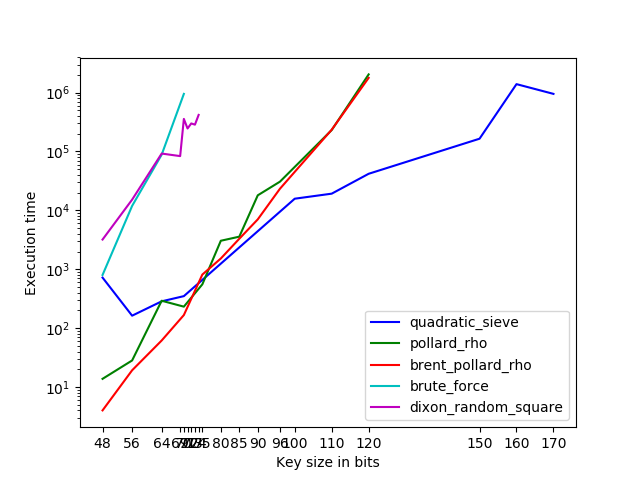
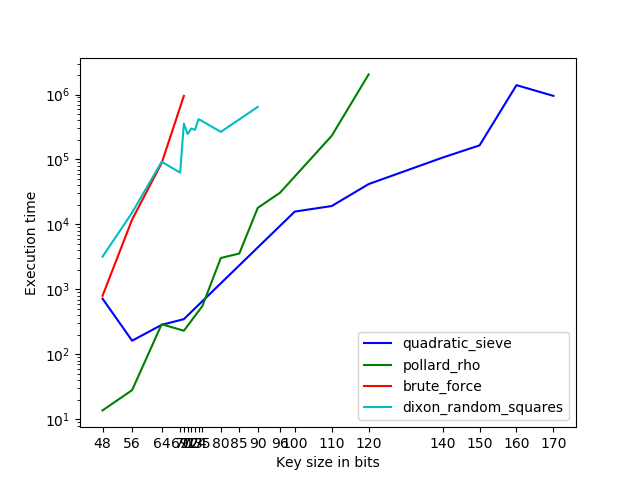
updated dixon random squares to become suffiently faster

diff --git a/factorizer/dixon_random_squares/rsa_dixon_random_squares.py b/factorizer/dixon_random_squares/rsa_dixon_random_squares.py
@@ -4,8 +4,8 @@ import time
 
 from interface import implements, Interface
 
+from factorizer.quadratic_sieve.matrix_operations import build_index_matrix, solve_matrix_opt
 from factorizer.rsa_factorizer import rsa_factorizer
-from helper.gaussian_elimination import reduced_row_echelon_form
 from helper.primes_sieve import primes_sieve
 
 
@@ -26,82 +26,13 @@ def factorize_number_from_primes(number, primes):
     return None, None
 
 
-def find_next_selection(row_ones, pointers):
-    if pointers is None or len(pointers) == 0:
-        return [], None
-    temp_pointers = list(pointers)
-    i = 0
-    while i != len(pointers):
-        is_in_the_begining_and_should_update = i == 0 and pointers[i] == len(row_ones) - 1
-        is_not_in_the_begining_and_should_update = pointers[i - 1] == pointers[i] + 1
-        if is_in_the_begining_and_should_update or is_not_in_the_begining_and_should_update:
-            i += 1
-            continue
-        pointers[i] += 1
-        for index in reversed(range(i)):
-            pointers[index] = pointers[index + 1] + 1
-        return row_ones[temp_pointers], pointers
-    return row_ones[temp_pointers], None
-
-
-def factor_from_reduced_matrix(ones, test_congruence, Z, all_rows_in_factor, B, n):
-    p, q = None, None
-    current_index = 0
-    forced_zeros = set()
-    reduced_ones = []
-    for one in ones:
-        if len(one) == 1:
-            forced_zeros.add(one[0])
-        else:
-            reduced_ones.append(one)
-    ones = reduced_ones
-    states = [[set(), set(), None, False] for _ in range(len(ones) + 1)]
-    states[0][0] = forced_zeros
-    while p is None and q is None:
-        if current_index == -1:
-            return None, None
-        if current_index == len(ones):
-            return test_congruence.validate(states[current_index][1], Z, all_rows_in_factor, B, n)
-        if not states[current_index][3]:
-            row_ones = np.array(ones[current_index])
-            ones_disjoint = np.array([one for one in row_ones if
-                                      one not in states[current_index][1] and one not in states[current_index][0]])
-            ones_intersect = states[current_index][1].intersection(row_ones)
-            pointers = states[current_index][2]
-            if pointers is None:
-                d = len(ones_disjoint) - 1 if len(ones_disjoint) & 1 else len(ones_disjoint)
-                if len(ones_intersect) & 1:
-                    d += 1
-                if d > len(ones_disjoint):
-                    d -= 2
-                pointers = [i for i in reversed(range(d))]
-            current_selection, pointers = find_next_selection(ones_disjoint, pointers)
-            if pointers is None:
-                if current_selection is None or len(current_selection) - 2 <= 0:
-                    states[current_index][3] = True
-                else:
-                    pointers = [i for i in reversed(range(len(current_selection) - 2))]
-            states[current_index][2] = pointers
-            difference_zeros = set(row_ones).difference(current_selection).difference(ones_intersect)
-            new_forced_zeros = states[current_index][0].union(difference_zeros)
-            new_forced_ones = states[current_index][1].union(current_selection)
-            current_index += 1
-            states[current_index][0] = new_forced_zeros
-            states[current_index][1] = new_forced_ones
-            states[current_index][3] = False
-            continue
-        current_index -= 1
-    return p, q
-
-
 class rsa_dixon_random_squares(implements(rsa_factorizer)):
     def __init__(self, n, e, test_congruence):
         self.test_congruence = test_congruence
         self.n = n
         self.e = e
         k = int(math.exp(0.5 * math.sqrt(math.log1p(self.n) * math.log1p(math.log1p(self.n)))))
-        self.B = np.array(primes_sieve(k), dtype=int)
-        print(len(self.B))
+        self.B = primes_sieve(k)
 
     def build_up_test_values(self, c):
         Z = np.array([None] * (len(self.B) + 1))
@@ -123,24 +54,16 @@ class rsa_dixon_random_squares(implements(rsa_factorizer)):
     def factorize(self, c=1):
         print("start building up matrices")
         start_time = int(round(time.time() * 1000))
-        self.Z, self.all_rows_in_binary_factor, self.all_rows_in_factor = self.build_up_test_values(c)
+        Z, all_rows_in_binary_factor, all_rows_in_factor = self.build_up_test_values(c)
         end_time = int(round(time.time() * 1000))
         print("Building: " + str(end_time - start_time))
         print("end building up matrices")
         print("start echelon")
-        start_time = int(round(time.time() * 1000))
-        matrix, numpivots = reduced_row_echelon_form(self.all_rows_in_binary_factor.transpose())
-        end_time = int(round(time.time() * 1000))
-        print("Echelon: " + str(end_time - start_time))
-        print("start echelon")
-        print("stop echelon")
-        start_time = int(round(time.time() * 1000))
-        ones = np.array(
-            [[index for (index, bit) in enumerate(matrix[i, :]) if bit] for i in reversed(range(numpivots))])
-        print("ones")
-        p, q = factor_from_reduced_matrix(ones, self.test_congruence, self.Z, self.all_rows_in_factor, self.B, self.n)
-        end_time = int(round(time.time() * 1000))
-        print("Factor: " + str(end_time - start_time))
-        if p is not None and q is not None:
-            return p, q
+        M_opt, M_n, M_m = build_index_matrix(all_rows_in_binary_factor)
+        perfect_squares = solve_matrix_opt(M_opt, M_n, M_m)
+        for square_indices in perfect_squares:
+            p, q = self.test_congruence.validate(square_indices, Z, all_rows_in_factor, self.B, self.n)
+            if p is not None and q is not None:
+                return p, q
+
         return self.factorize(c + 1)

diff --git a/factorizer/dixon_random_squares/rsa_dixon_random_squares_client.py b/factorizer/dixon_random_squares/rsa_dixon_random_squares_client.py
@@ -6,9 +6,8 @@ from interface import implements
 import numpy as np
 import json
 
-from factorizer.dixon_random_squares.rsa_dixon_random_squares import factor_from_reduced_matrix
+from factorizer.quadratic_sieve.matrix_operations import build_index_matrix, solve_matrix_opt
 from factorizer.rsa_factorizer import rsa_factorizer
-from helper.gaussian_elimination import reduced_row_echelon_form
 from helper.primes_sieve import primes_sieve
 
 
@@ -62,13 +61,10 @@ class rsa_dixon_random_squares_client(implements(rsa_factorizer)):
         smooth_relations = []
         smooth_binary_relations = []
         Z, all_rows_in_factor, all_rows_in_binary_factor = self.build_up_test_values_parallel(c)
-        matrix, numpivots = reduced_row_echelon_form(all_rows_in_binary_factor.transpose())
-        start_time = int(round(time.time() * 1000))
-        ones = np.array(
-            [[index for (index, bit) in enumerate(matrix[i, :]) if bit] for i in reversed(range(numpivots))])
-        p, q = factor_from_reduced_matrix(ones, self.test_congruence, Z, all_rows_in_factor, np.array(self.B, dtype=int), self.n)
-        end_time = int(round(time.time() * 1000))
-        print("Factor: " + str(end_time - start_time))
-        if p is not None and q is not None:
-            return p, q
-        return self.factorize(c + self.m)
+        M_opt, M_n, M_m = build_index_matrix(all_rows_in_binary_factor)
+        perfect_squares = solve_matrix_opt(M_opt, M_n, M_m)
+        for square_indices in perfect_squares:
+            p, q = self.test_congruence.validate(square_indices, Z, all_rows_in_factor, self.B, self.n)
+            if p is not None and q is not None:
+                return p, q
+

diff --git a/factorizer/dixon_random_squares/rsa_dixon_random_squares_validate_congruence.py b/factorizer/dixon_random_squares/rsa_dixon_random_squares_validate_congruence.py
@@ -13,7 +13,7 @@ class rsa_dixon_random_squares_test_congruence(implements(dixon_congruence_valid
         exponent_sum = np.sum(all_rows_in_factor[list_z_values, :], axis=0, dtype=int)
         y_congruence = 1
         for index in range(len(B)):
-            y_congruence = (y_congruence * B[index].item() ** (exponent_sum[index].item() // 2)) % n
+            y_congruence = (y_congruence * B[index] ** (exponent_sum[index].item() // 2)) % n
         p = math.gcd(z_congruence + y_congruence, n)
         if p != 1 and p != n:
             return p, int(n / p)

diff --git a/factorizer/pollard_rho/rsa_pollard_rho.py b/factorizer/pollard_rho/rsa_pollard_rho.py
@@ -14,16 +14,13 @@ class rsa_pollard_rho(implements(rsa_factorizer)):
 
     def factorize(self, f = lambda u: u ** 2 + 1):
         x = random.randint(2, self.n - 1)
-        y = f(x) % self.n
+        y = x % self.n
         p = 1
-        c = 0
         while p == 1:
-            c += 1
             x = f(x) % self.n
             y = f(f(y)) % self.n
             p = math.gcd((x - y) % self.n, self.n)
             if p == self.n:
                 return self.factorize(f)
-        print(c)
         return p, int(self.n / p)
 

diff --git a/factorizer/quadratic_sieve/rsa_quadratic_sieve.py b/factorizer/quadratic_sieve/rsa_quadratic_sieve.py
@@ -218,7 +218,7 @@ def siqs_find_factors(n, perfect_squares, smooth_relations):
     """
     for square_indices in perfect_squares:
         fact = factor_from_square(n, square_indices, smooth_relations)
-        if fact != 1:
+        if fact != 1 and fact != n:
             return fact, int(n / fact)
     return None, None
 
